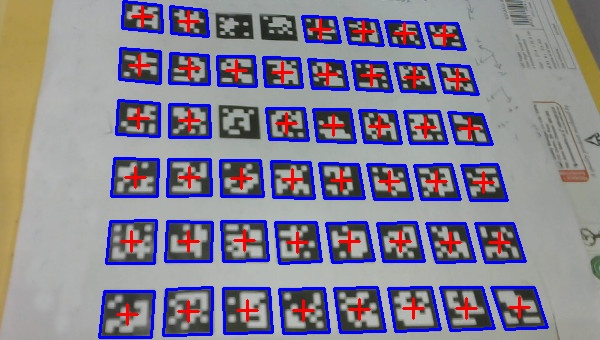
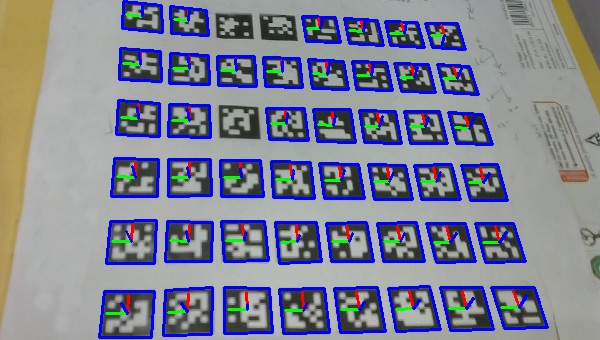
Implement 3d pose estimation

diff --git a/aruco.py b/aruco.py
@@ -15,11 +15,11 @@ class Aruco:
 
         # Create edge image using adaptive threshold
         img_thresh = cv2.adaptiveThreshold(
-            img_gray, 255, cv2.ADAPTIVE_THRESH_MEAN_C, cv2.THRESH_BINARY_INV, 21, 0)
+            img_gray, 255, cv2.ADAPTIVE_THRESH_MEAN_C, cv2.THRESH_BINARY_INV, 21, 2)
         contours, _ = cv2.findContours(
             img_thresh, cv2.RETR_EXTERNAL, cv2.CHAIN_APPROX_SIMPLE)
         candidate_rects = []
-        
+
         for cnt in contours:
             cnt = cv2.approxPolyDP(cnt, epsilon=5, closed=True)
             # Detect rectange of decent size
@@ -39,11 +39,49 @@ class Aruco:
 
             # If it is valid then add it to results
             if tuple(img_out.ravel().tolist()) in self.dict:
+                res, rot = self.dict[tuple(img_out.ravel())]
+                if rot == 1:
+                    rect = np.concatenate([rect[1:], rect[0:1]], axis=0)
+                if rot == 2:
+                    rect = np.concatenate([rect[2:], rect[0:2]], axis=0)
+                if rot == 3:
+                    rect = np.concatenate([rect[3:], rect[0:3]], axis=0)
                 result.append(
-                    [self.dict[tuple(img_out.ravel())][0],
+                    [res,
                      rect]
                 )
         return result
+
+    def estimate_pose_from_single_marker(self, corners, size, camera_matrix, dist_coeffs):
+        obj_pts = np.array(
+            [
+                [size/2, size/2, 0],
+                [-size/2, size/2, 0],
+                [-size/2, -size/2, 0],
+                [size/2, -size/2, 0]
+            ], dtype=np.float32
+        )
+
+        ret, rvec, tvec = cv2.solvePnP(obj_pts, corners.reshape(
+            (4, 2)).astype(float), camera_matrix, dist_coeffs)
+        return ret, rvec, tvec
+
+    def draw_axis(self, img, camera_matrix, dist_coeff, rvec, tvec, axis_size=0.4):
+
+        obj_pts = np.array(
+            [
+                [0, 0, 0],
+                [axis_size, 0, 0],
+                [0, axis_size, 0],
+                [0, 0, axis_size]
+            ], dtype=np.float32
+        )
+        points, _ = cv2.projectPoints(
+            obj_pts, rvec, tvec, cameraMatrix=camera_matrix, distCoeffs=dist_coeff)
+        points = points.astype(int).reshape((4, 2))
+        cv2.line(img, points[0], points[1], (0, 0, 255), 2)
+        cv2.line(img, points[0], points[2], (0, 255, 0), 2)
+        cv2.line(img, points[0], points[3], (255, 0, 0), 2)
 
 
 if __name__ == "__main__":
@@ -53,14 +91,23 @@ if __name__ == "__main__":
     aruco = Aruco("DICT_6X6_250")
     start = time.time()
     out = aruco.detect(img_gray)
-    end =  time.time()
+    end = time.time()
     print(end-start)
-
+    
+    camera_matrix = np.array([
+        [1430, 0, 480],
+        [0, 1430, 620],
+        [0, 0, 1]
+    ], dtype=float)
+    
     img_out = img.copy()
+    
     for id, corners in out:
         x, y = np.mean(corners.squeeze(), axis=0).astype(int)
-        cv2.polylines(img_out, [corners], True, (255,0,0), thickness=2)
-        img_out = cv2.drawMarker(img_out, (x, y), (0, 0, 255), thickness=2)
+        cv2.polylines(img_out, [corners], True, (255, 0, 0), thickness=2)
+        res, rvec, tvec = aruco.estimate_pose_from_single_marker(
+            corners, 1, camera_matrix, None)
+        aruco.draw_axis(img_out, camera_matrix, None, rvec, tvec)
     cv2.imshow("Input", img)
     cv2.imshow("Output", img_out)
     cv2.imwrite("./output_image.jpg", img_out)

diff --git a/README.md b/README.md
@@ -23,4 +23,4 @@ Input Image
 
 Output Image
 
-<img src="output_image.jpg">
+![Input image](output_image.jpg)
